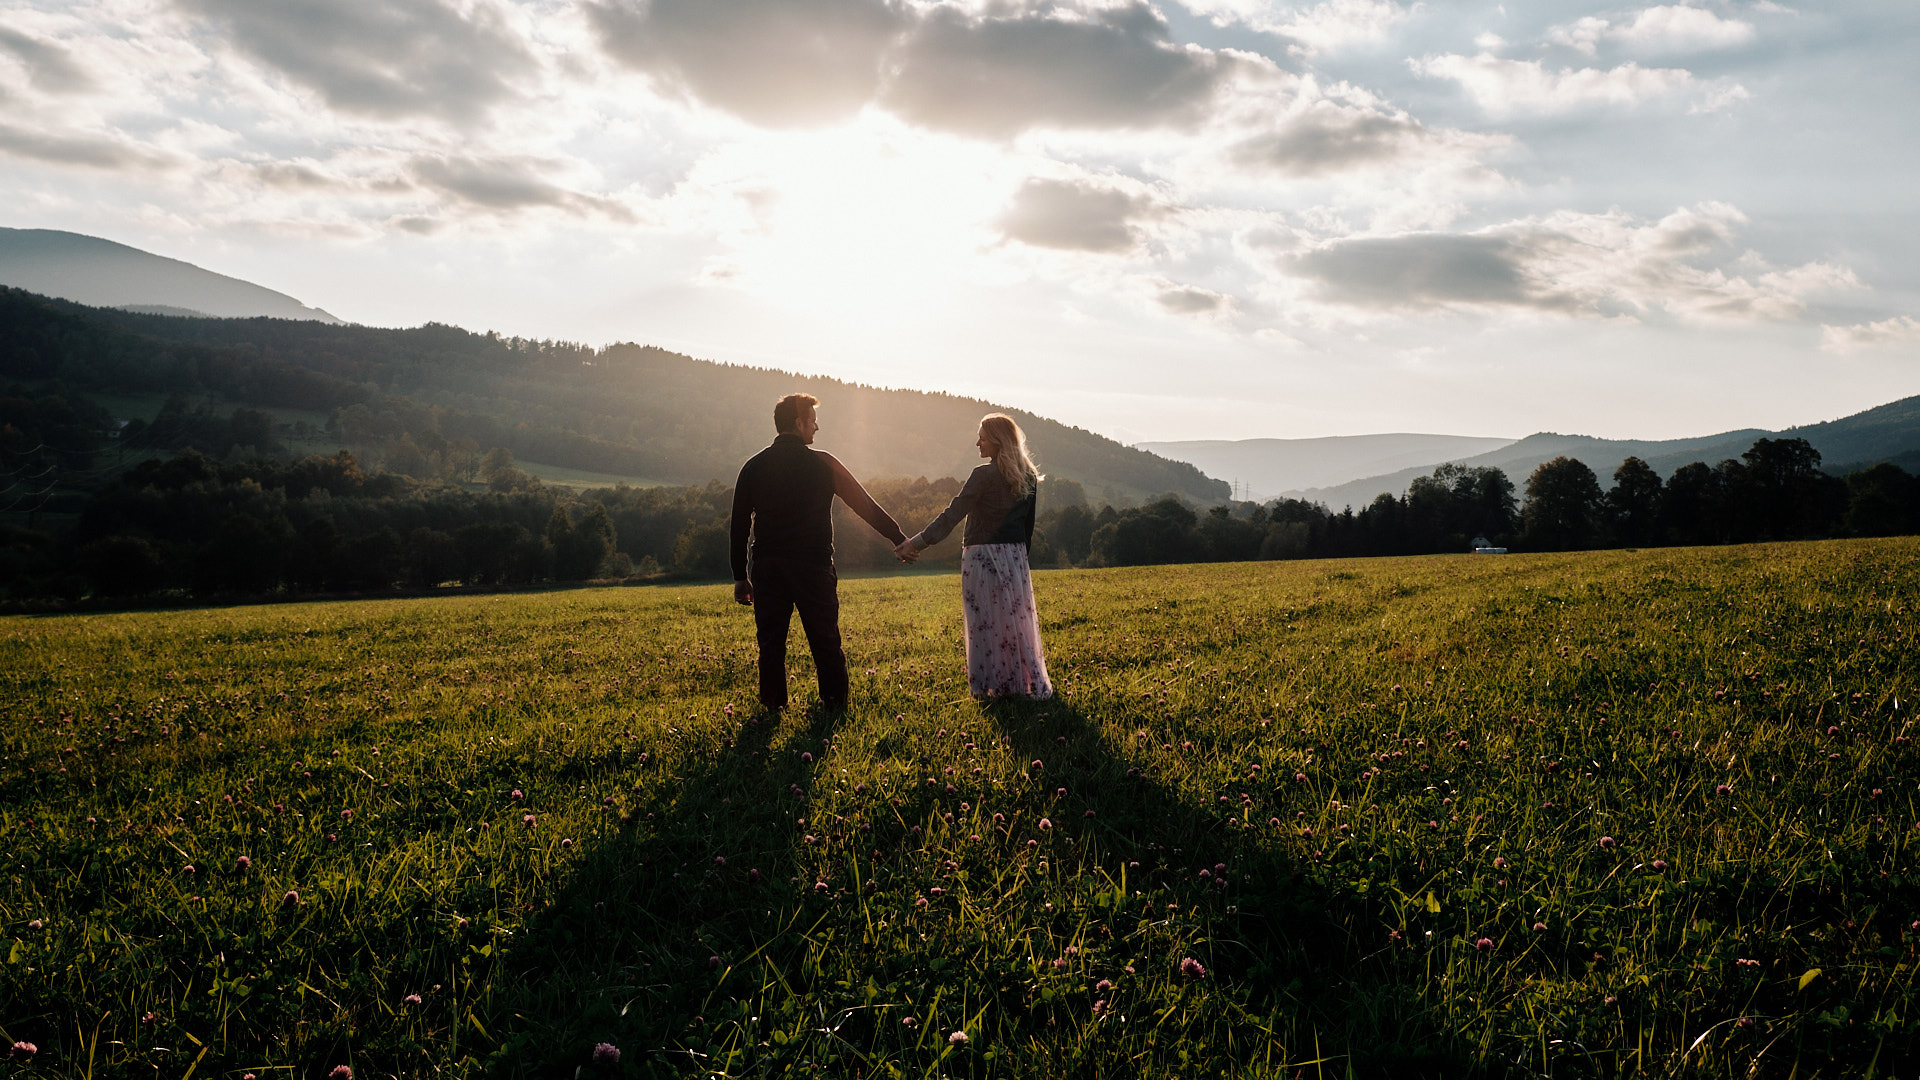
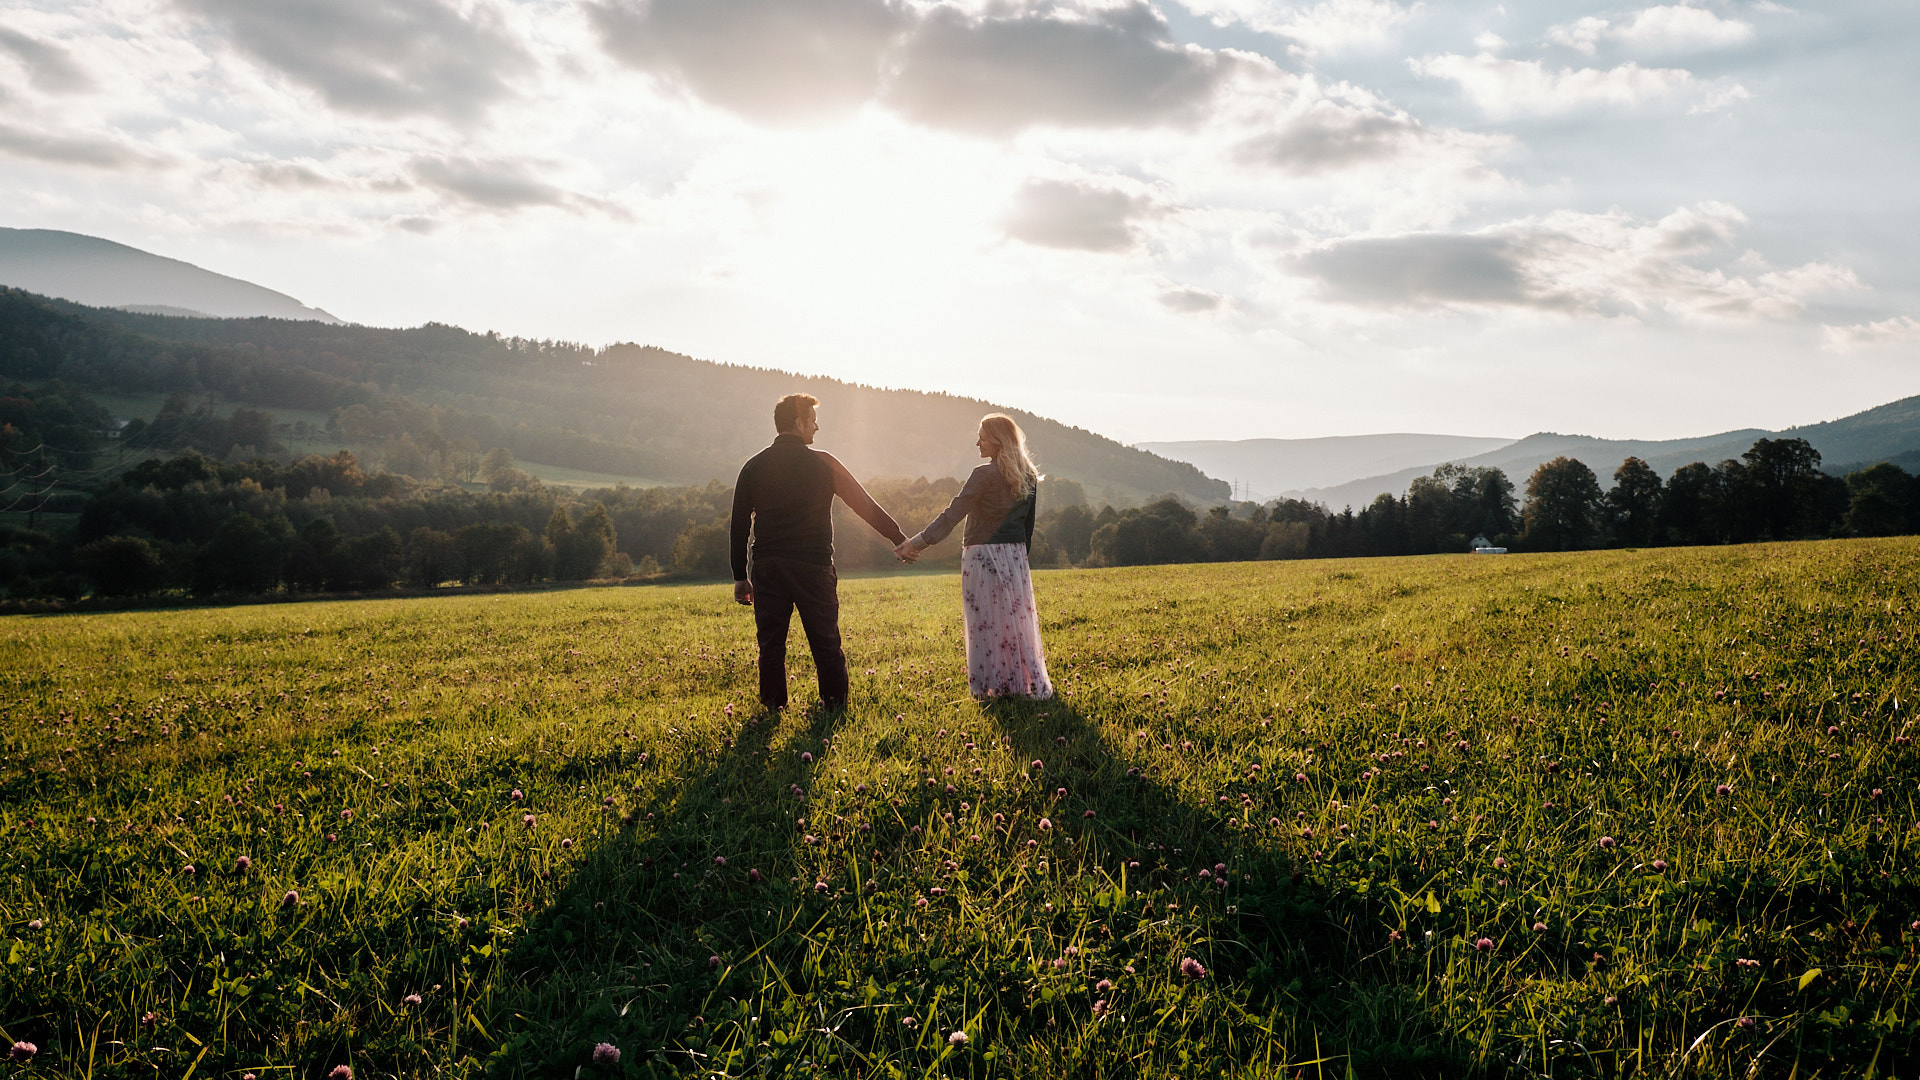
Final tunning

diff --git a/src/index.html b/src/index.html
@@ -258,7 +258,7 @@
                     <div class="photo-item animation fadeInLeft">
 
                         <!--HIS-PHOTO-->
-                        <img src="images/honza-look-on-her-453x453-kurkov_1.jpg" alt="" class="hover-animation image-zoom-in">
+                        <img src="images/honza-453x453.jpg" alt="" class="hover-animation image-zoom-in">
 
                         <!--PHOTO OVERLAY-->
                         <div class="layer wh95 hidden-black-overlay hover-animation fade-in">
@@ -280,7 +280,7 @@
 
                     <div class="couple-excerpt animation fadeInLeft">
                         <h2 class="h5"><a href="him-popup-template.html" class="magnific-ajax">ŽENICH</a></h2>
-                        <p>Pusina je velice pozorný a zábavný partner, který mě dokáže rozesmát za jakýchkoliv okolností.
+                        <p style="text-align: justify">Pusina je velice pozorný a zábavný partner, který mě dokáže rozesmát za jakýchkoliv okolností.
                             Je to velký vtipálek, který nebere nic vážně a chytrák, co mě stále učí novým věcem.
                             Honzík má perfektní organizační schopnosti a toho si velice cením.
                             Je to prostě nejlepší parťák na cestování. Jeho soupeřivost a cílevědomost obdivuji a vážím si ho.
@@ -293,7 +293,7 @@
                     <div class="photo-item animation fadeInRight">
 
                         <!--HER-PHOTO-->
-                        <img src="images/zani-look-on-him-453x453-kurkov_1.jpg" alt="" class="hover-animation image-zoom-in">
+                        <img src="images/zani-453x453.jpg" alt="" class="hover-animation image-zoom-in">
 
                         <!--PHOTO OVERLAY-->
                         <div class="layer wh95 hidden-black-overlay hover-animation fade-in">
@@ -316,7 +316,7 @@
 
                     <div class="couple-excerpt animation fadeInRight">
                         <h2 class="h5"><a href="her-popup-template.html" class="magnific-ajax">NEVĚSTA</a></h2>
-                        <p>Žani je děvče, které rozhodně nezkazí žádnou zábavu.
+                        <p style="text-align: justify">Žani je děvče, které rozhodně nezkazí žádnou zábavu.
                            Je to nesmírně zvídavý smajlík, jenž neustále ráda zkouší a objevuje nové věcí, chutě, místa a aktivity.
                            Na jednom místě neposedí a ráda vymýšlí a organizuje zábavu nejen pro sebe, ale i pro všechny své přátele.
                            Je člověkem, který se ve světě naztratí, páč se ničeho (kromě hororů) nebojí a komunikace je rozhodně její silná stránka.
@@ -336,7 +336,7 @@
     <!-- SAVE THE DATE SECTION -->
     <section id="save-the-date-section">
         <div class="image-divider fixed-height"
-             style="background-image:url(images/wedding-1.jpg); height:500px"
+             style="background-image:url(images/wedding-1.jpg); height:600px"
              data-stellar-background-ratio="0.5">
 
             <div class="divider-overlay"></div>
@@ -375,9 +375,13 @@
             </div>
 
             <div class="row">
+                <div class="col-md-2 col-sm-2">
+
+                </div>
+
                 <!-- ITEM-1 -->
                 <!-- =================================================================== -->
-                <div class="col-md-6 col-sm-6 wedding-item-wrapper">
+                <div class="col-md-4 col-sm-4 wedding-item-wrapper">
 
                     <!--PHOTO-ITEM-->
                     <div class="photo-item animation fadeInUp">
@@ -416,7 +420,7 @@
 
                 <!-- ITEM-2 -->
                 <!-- =================================================================== -->
-                <div class="col-md-6 col-sm-6 wedding-item-wrapper">
+                <div class="col-md-4 col-sm-4 wedding-item-wrapper">
 
                     <!--PHOTO-ITEM-->
                     <div class="photo-item animation fadeInUp">
@@ -454,6 +458,10 @@
 
                 </div><!-- END of ITEM-2 -->
 
+                <div class="col-md-2 col-sm-2">
+
+                </div>
+
             </div>
 
         </div>
@@ -463,7 +471,7 @@
 
     <!-- DIVIDER-2 SECTION -->
     <section id="divider-2-section">
-        <div class="image-divider fixed-height" style="height:500px; background-image:url(images/counting.jpg);"
+        <div class="image-divider fixed-height" style="height:600px; background-image:url(images/counting.jpg);"
              data-stellar-background-ratio="0.5">
 
             <div class="divider-overlay"></div>
@@ -738,7 +746,7 @@
     <!-- DIVIDER-4 SECTION -->
     <section id="divider-4-section">
         <div class="image-divider fixed-height"
-             style="background-image:url(images/divider-v-trave-1920x1080_3.jpg); height:600px"
+             style="background-image:url(images/divider-4-1920x1080.jpg); height:600px"
              data-stellar-background-ratio="0.2">
 
             <div class="divider-overlay"></div>

diff --git a/src/css/style.css b/src/css/style.css
@@ -1,193 +1,5 @@
 @charset "utf-8";
 
-/*============================== 
-	- Template Name: MARRY - Responsive HTML Wedding Template
-	- Author: DoubleEight
-	- Version: 1.0.0
-	- Website: themeforest.net/user/doubleeight/portfolio
-================================= */	
-
-/*---------------------- 
-	Stylesheet Guide
-------------------------
-00. PRELOADER
-
-01. GENERAL
-			
-02. NAV BAR
-	02.1 Width & Color
-		02.1.1 Fixed Width
-		02.1.2 Fluid Width
-		02.1.3 Top Bar
-		02.1.4 Bottom Bar
-		02.1.5 Transparent & Block Color
-	02.2 Logo & Nav Position
-		02.2.1 Nav Center
-		02.2.2 Nav Left
-		02.2.3 Nav Right
-		
-03. NAV MENU
-	03.1 Parent Menu
-		03.1.1 Transparent
-		03.1.2 Additional Class For Nav Center
-	03.2 Child Menu
-		03.2.1 Transparent Child Menu
-		03.2.2 Child-Parent Arrow
-		03.2.3 More Child
-	03.3 Mobile Nav
-		
-05. LOGO
-	05.1 Default (Nav) Logo
-	05.2 Wedding Logo 
-	05.3 IMG Logo
-
-06. MAIN-SLIDER
-	06.1 Main Slider Height
-	06.2 Main Slider Flexslider
-		06.2.1 Main Slider Flexslider Control Nav & Paging
-	06.3 Main Slider Slide Image and Video
-	06.4 Main Slider Title
-		06.4.1 Outter Wrapper 
-		06.4.2 Inner Wrapper
-		06.4.3 Title Wrapper
-		06.4.4 Title Alignment
-		06.4.5 Couple Name Title
-		06.4.6 Default Page Title		
-	06.5 Each Slide Overlay
-	06.6 Each Slide Caption
-	06.7 Hack Flexslider Fade for Firefox & IE11
-	06.8 Loop Animation
-		06.8.1 Zoom
-		06.8.2 Left-Right
-	06.9 Video Audio Control
-	06.10 Slide Arrow
-		
-07. PAGE
-	07.1 Page Element
-		07.1.1 Title-Excerpt White Box
-		07.1.2 Align Middle Wrapper	
-		07.1.3 Image & Video Divider
-		07.1.4 Space & Line Divider
-		07.1.5 Popup Template
-		07.1.6 Autocrop Image
-		07.1.7 Popup Video
-		07.1.8 Map
-		07.1.9 Box Countdown
-		07.1.10 Circle Countdown
-		07.1.11 Section Block
-		07.1.12 Divider Quote
-		07.1.13 Loader Animation
-
-08. ICON
-	08.1 Size
-	08.2 Shape / Color
-		08.2.1 Default	
-		08.2.2 Light-1
-		08.2.3 Light-2
-		08.2.4 Circle, Rounded, Square
-	08.3 Effect Zoom 
-	08.4 Effect Rotate
-	08.5 Effect Square/Rounded To Circle	
-	
-09. BUTTON
-	09.1 Color
-		09.1.1 Default
-		09.1.2 Outline Dark
-		09.1.3 Light-1	
-		09.1.4 Light-2
-	09.2 Size
-	09.3 Rounded	
-			
-10. PHOTO ITEM
-	10.1 Image
-	10.2 Layer
-		10.2.1 Layer : Second Image
-		10.2.2 Layer : Black Overlay 
-		10.2.3 Layer : Photo Caption
-		10.2.4 Layer : Icon / Button Link  
-	10.3 on Hover Animation
-		10.3.1 on Hover Animation Duration
-		10.3.2 on Hover Animation Delay	
-		10.3.3 on Hover Zoom In	
-		10.3.4 on Hover Zoom In and Rotate
-		10.3.5 on Hover Fade Out		
-
-11. MASONRY GALLERY
-	11.1 Three Column No Gutter
-	11.2 Three Column With Gutter
-	11.3 Four Column No Gutter
-	11.4 Four Column With Gutter
-	11.5 Five Column No Gutter
-	11.6 Five Column With Gutter	
-	
-12. FORM
-	12.1 Form Group
-	12.2 Form Control
-	12.3 Input Group
-	12.4 Label
-	12.5 Button
-	12.6 Checkbox and Radio(Custom)
-	12.7 Select Option
-	12.8 Message
-	12.9 Validation	
-		
-13. HOME PAGE
-	13.1 Couple Section
-	13.2 Adventure Begin
-	13.3 The Wedding Section
-	13.4 Footer Section
-	
-14. HOME PAGE 2
-	
-15. OTHER PAGES
-	15.1 About / Story Page
-	15.2 Our Story
-	15.3 Location
-	15.4 Bridesmaid / Groomsmen
-	15.5 Gift Registry
-	15.6 Gallery
-	15.7 Accomodation
-
-16. ONEPAGE SECTION
-	16.1 Our Story Section
-	16.2 Save the Date Section
-	16.3 Counting Section
-	16.4 Attending Section
-	16.5 Gift Registry Section
-	
-17. OTHER SECTIONS
-	17.1 Event Carousel
-
-18. PLUGIN CUSTOM
-	18.1 Owl Carousel
-	18.2 Magnific Popup
-
-18. MEDIA SCREEN
-	- @media screen and (max-width: 1200px)
-	- @media screen and (max-width: 991px)
-	- @media screen and (max-width: 991px) and (orientation : landscape)
-	- @media screen and (max-width: 768px)
-	- @media screen and (max-width: 480px)
-	- @media screen and (max-width: 320px)
-	
-*/
-
-
-
-/* Theme Color 			: #f98d8a */
-/* Light Theme Color 	: #fa9996 */
-/* RGB Color			: 249, 141, 138 */
-
-/*===============================================*/
-/* 00. PRELOADER		 						 */
-/*===============================================*/
-/* See: */
-/* - preloader.css */
-
-
-/*===============================================*/
-/* 01. GENERAL			 						 */
-/*===============================================*/
 body{
 	font-family: 'Raleway', sans-serif;
 	color:#666;
@@ -1699,7 +1511,7 @@ hr.line-divider{
 /* Section Block , Content Block */
 /* Content block used for content without title, will resize to smaller on mobile, example on about him/her */
 .section-block, .content-block{
-	padding:90px 0;
+	padding:60px 0;
 }
 
 .section-block.more-grey,
